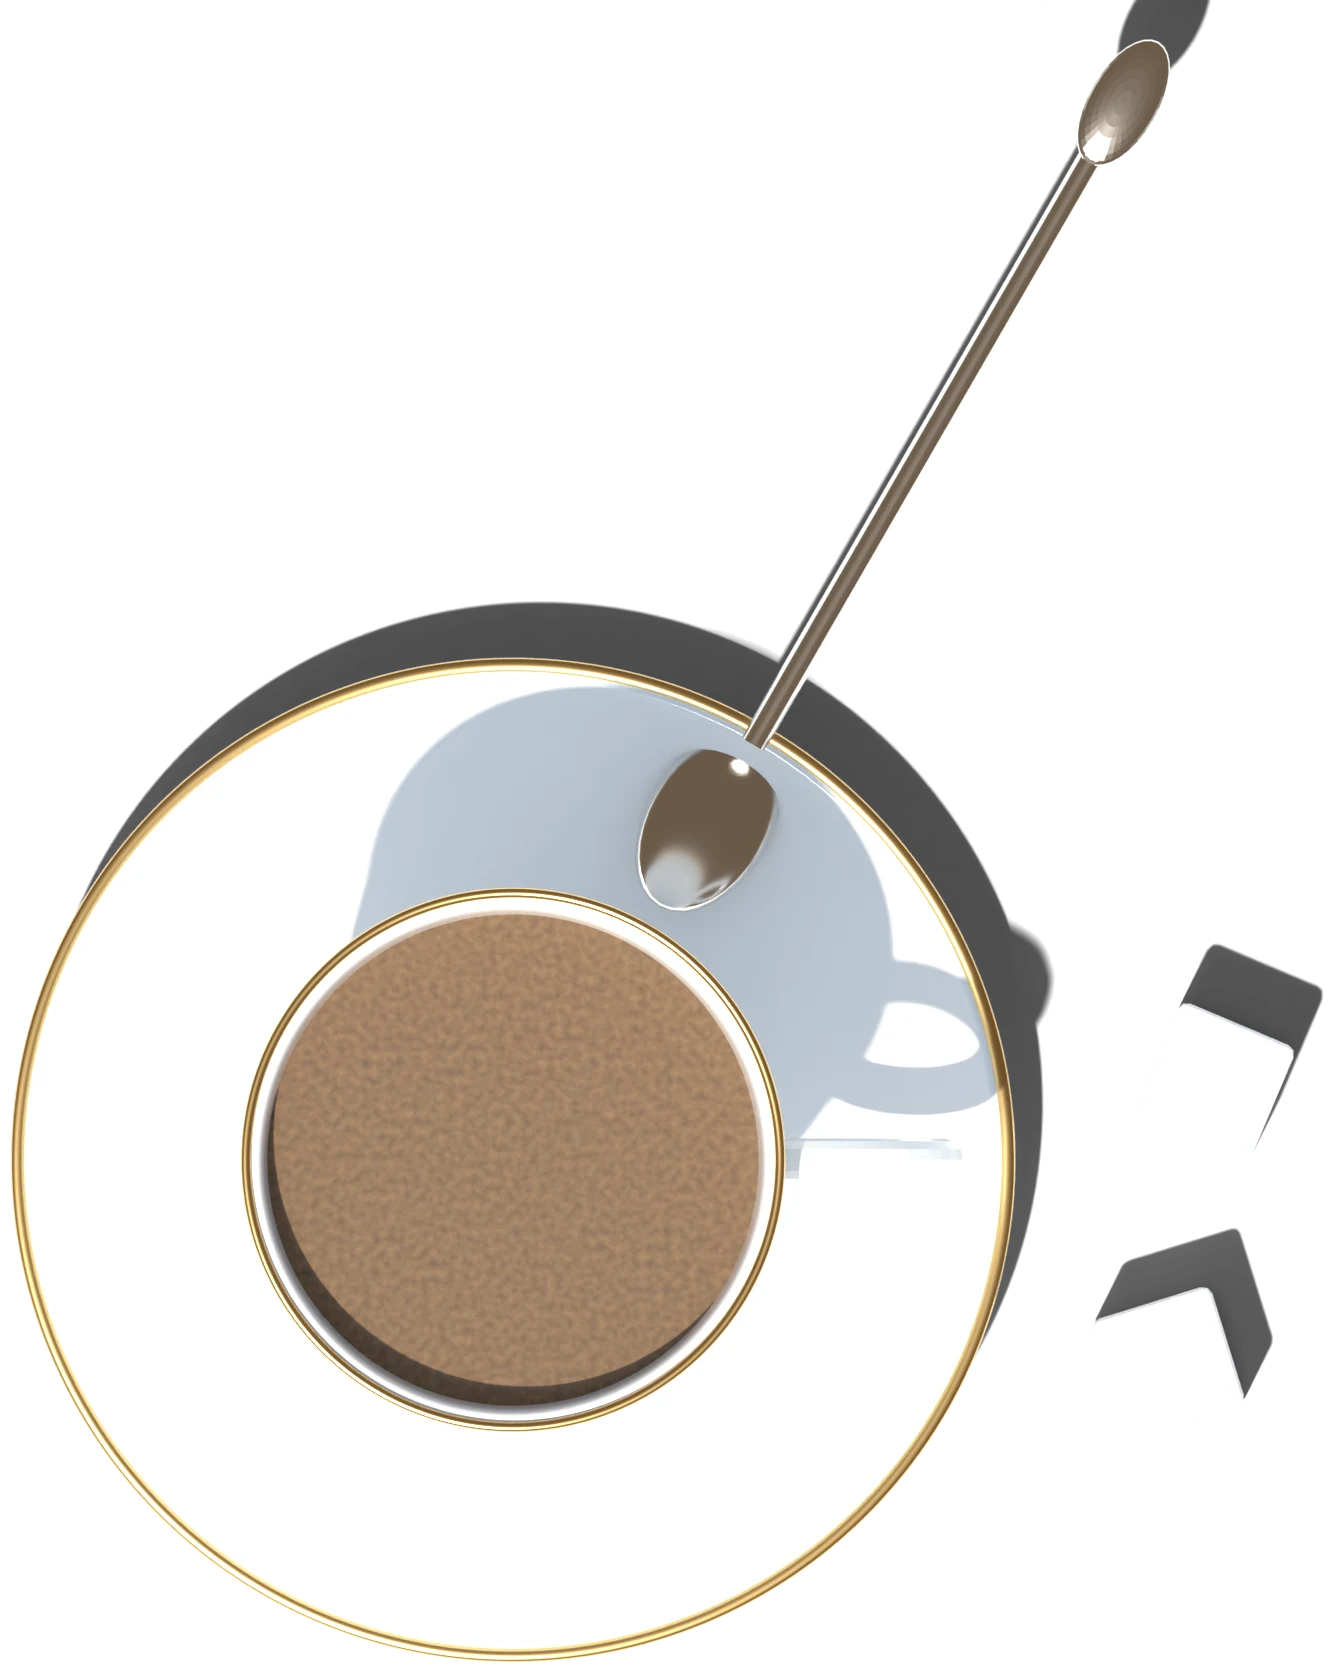
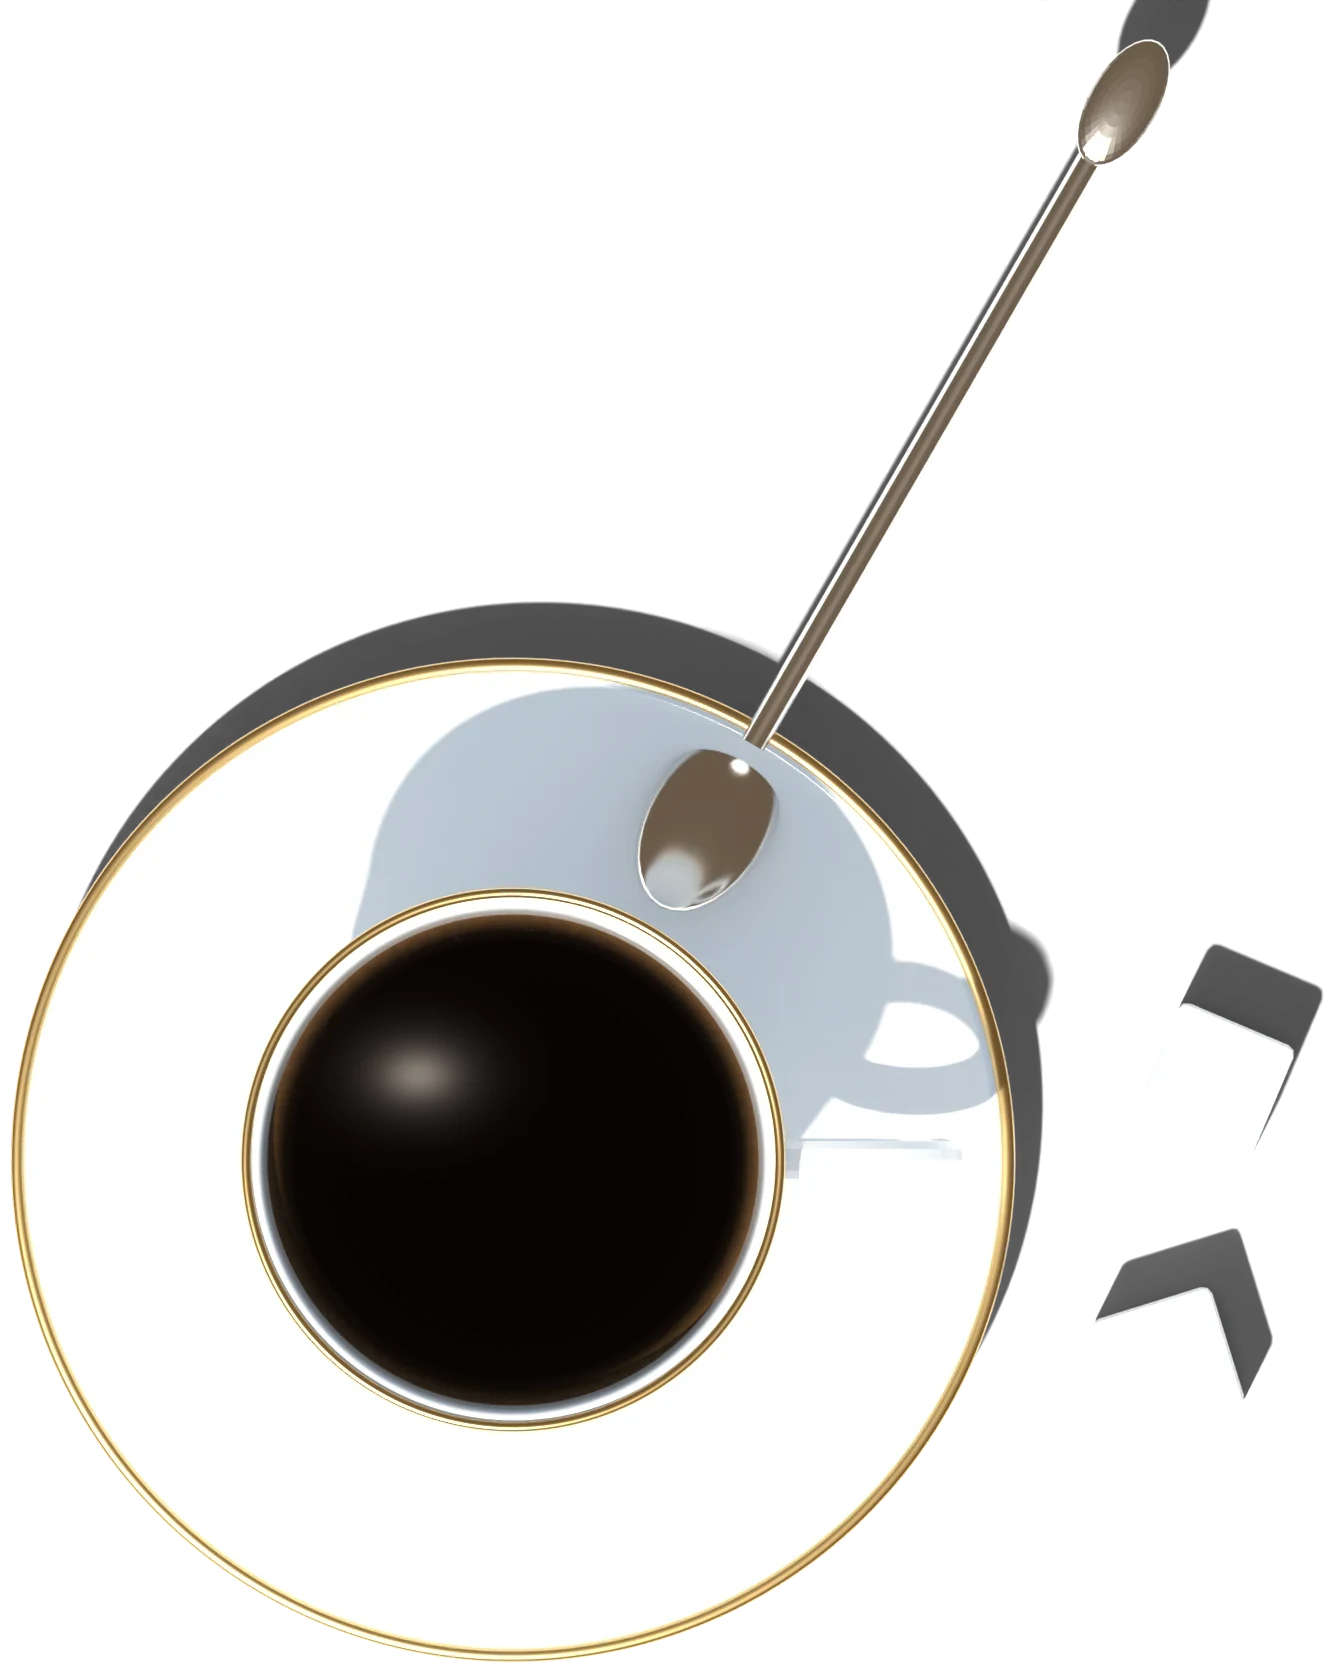
Тени листвы на доске и предметах (в меню и в игре), чёрный армянский кофе, аксессуары выезжают из-за края экрана
Claude-Session: https://claude.ai/code/session_013vq6NREHT7txoK1nXmxN83

Changed region(s): [[0.1845, 0.5284, 0.5844, 0.8392]]

diff --git a/index.html b/index.html
@@ -740,10 +740,10 @@ function probeFps(){
 }
 // GAME_VERSION — для людей, меняется при крупных обновлениях; APP_VERSION — номер сборки для кэша, растёт при каждой выкладке
 const GAME_VERSION='1.0';
-const APP_VERSION='63';   // совпадает с V в sw.js: номер сборки (имя кэша)
+const APP_VERSION='64';   // совпадает с V в sw.js: номер сборки (имя кэша)
 // AV — короткие хеши содержимого картинок (их пишет tools/stamp.py): адрес меняется, только когда меняется сам файл,
 // поэтому после обновления заново качается лишь то, что изменилось
-/*AV*/const AV={"boards/ararat-thumb.webp":"72ff05c2","boards/ararat.webp":"7c44b1ce","boards/ck-beech.png":"ef00f4f8","boards/ck-bronze.png":"db6b57b9","boards/ck-copper.png":"761c282a","boards/ck-gold.png":"87fddeef","boards/ck-ivory.png":"372b72ce","boards/ck-onyx.png":"bfb41b3a","boards/ck-pearl.png":"83aaf841","boards/ck-pomegranate.png":"73a5236d","boards/ck-walnut.png":"1857427e","boards/ckside-beech.png":"2e4a01b1","boards/ckside-bronze.png":"700fbb0d","boards/ckside-copper.png":"54a53742","boards/ckside-gold.png":"f3c3b036","boards/ckside-ivory.png":"cce1b2d9","boards/ckside-onyx.png":"3695f6bf","boards/ckside-pearl.png":"d9c5e6f3","boards/ckside-pomegranate.png":"79fe0975","boards/ckside-walnut.png":"bc0fa647","boards/die-1.png":"2d6046dd","boards/die-2.png":"dba1ef51","boards/die-3.png":"c4754c62","boards/die-4.png":"c26495e1","boards/die-5.png":"49661381","boards/die-6.png":"3d46b683","boards/die-amber-1.png":"105d06f3","boards/die-amber-2.png":"f7695264","boards/die-amber-3.png":"518fcc5b","boards/die-amber-4.png":"82e42d65","boards/die-amber-5.png":"a53a1fed","boards/die-amber-6.png":"6114a46b","boards/die-wood-1.png":"f9fecd23","boards/die-wood-2.png":"dad9e71b","boards/die-wood-3.png":"ebe40557","boards/die-wood-4.png":"f8c4f6d2","boards/die-wood-5.png":"239c202c","boards/die-wood-6.png":"ea05a4a3","boards/glass-thumb.webp":"5db12bdb","boards/glass.webp":"3fe1cddb","boards/lid.webp":"47f4a845","boards/maple.webp":"c7e0d43c","boards/night-thumb.webp":"61a42599","boards/night.webp":"96cd9880","boards/plaque.webp":"6c60c0b6","boards/pomegranate-thumb.webp":"d5574e56","boards/pomegranate.webp":"a89189f5","boards/prop-beads.webp":"01fd0477","boards/prop-cup.webp":"1ea30827","boards/prop-pack.webp":"a1f55e5d","boards/pt-ararat-long.png":"1f9d21de","boards/pt-ararat-short.png":"62177d3a","boards/pt-glass-long.png":"a501e2e6","boards/pt-glass-short.png":"a501e2e6","boards/pt-night-long.png":"bbebf00f","boards/pt-night-short.png":"bbebf00f","boards/pt-pomegranate-long.png":"1f9d21de","boards/pt-pomegranate-short.png":"62177d3a","boards/pt-sevan-long.png":"1f9d21de","boards/pt-sevan-short.png":"62177d3a","boards/pt-yerevan-long.png":"f99f18b5","boards/pt-yerevan-short.png":"0456280e","boards/sevan-thumb.webp":"35db3522","boards/sevan.webp":"56ec51be","boards/table.webp":"34c082e5","boards/walnut-plank.webp":"3f05219c","boards/yerevan-thumb.webp":"4817779b","boards/yerevan.webp":"64e36c39"};/*/AV*/
+/*AV*/const AV={"boards/ararat-thumb.webp":"72ff05c2","boards/ararat.webp":"7c44b1ce","boards/ck-beech.png":"ef00f4f8","boards/ck-bronze.png":"db6b57b9","boards/ck-copper.png":"761c282a","boards/ck-gold.png":"87fddeef","boards/ck-ivory.png":"372b72ce","boards/ck-onyx.png":"bfb41b3a","boards/ck-pearl.png":"83aaf841","boards/ck-pomegranate.png":"73a5236d","boards/ck-walnut.png":"1857427e","boards/ckside-beech.png":"2e4a01b1","boards/ckside-bronze.png":"700fbb0d","boards/ckside-copper.png":"54a53742","boards/ckside-gold.png":"f3c3b036","boards/ckside-ivory.png":"cce1b2d9","boards/ckside-onyx.png":"3695f6bf","boards/ckside-pearl.png":"d9c5e6f3","boards/ckside-pomegranate.png":"79fe0975","boards/ckside-walnut.png":"bc0fa647","boards/die-1.png":"2d6046dd","boards/die-2.png":"dba1ef51","boards/die-3.png":"c4754c62","boards/die-4.png":"c26495e1","boards/die-5.png":"49661381","boards/die-6.png":"3d46b683","boards/die-amber-1.png":"105d06f3","boards/die-amber-2.png":"f7695264","boards/die-amber-3.png":"518fcc5b","boards/die-amber-4.png":"82e42d65","boards/die-amber-5.png":"a53a1fed","boards/die-amber-6.png":"6114a46b","boards/die-wood-1.png":"f9fecd23","boards/die-wood-2.png":"dad9e71b","boards/die-wood-3.png":"ebe40557","boards/die-wood-4.png":"f8c4f6d2","boards/die-wood-5.png":"239c202c","boards/die-wood-6.png":"ea05a4a3","boards/glass-thumb.webp":"5db12bdb","boards/glass.webp":"3fe1cddb","boards/leafshade.webp":"ac682343","boards/lid.webp":"47f4a845","boards/maple.webp":"c7e0d43c","boards/night-thumb.webp":"61a42599","boards/night.webp":"96cd9880","boards/plaque.webp":"6c60c0b6","boards/pomegranate-thumb.webp":"d5574e56","boards/pomegranate.webp":"a89189f5","boards/prop-beads.webp":"01fd0477","boards/prop-cup.webp":"67e8e539","boards/prop-pack.webp":"a1f55e5d","boards/pt-ararat-long.png":"1f9d21de","boards/pt-ararat-short.png":"62177d3a","boards/pt-glass-long.png":"a501e2e6","boards/pt-glass-short.png":"a501e2e6","boards/pt-night-long.png":"bbebf00f","boards/pt-night-short.png":"bbebf00f","boards/pt-pomegranate-long.png":"1f9d21de","boards/pt-pomegranate-short.png":"62177d3a","boards/pt-sevan-long.png":"1f9d21de","boards/pt-sevan-short.png":"62177d3a","boards/pt-yerevan-long.png":"f99f18b5","boards/pt-yerevan-short.png":"0456280e","boards/sevan-thumb.webp":"35db3522","boards/sevan.webp":"56ec51be","boards/table.webp":"34c082e5","boards/walnut-plank.webp":"3f05219c","boards/yerevan-thumb.webp":"4817779b","boards/yerevan.webp":"64e36c39"};/*/AV*/
 const av=p=>p+'?v='+(AV[p]||APP_VERSION);
 const NS='http://www.w3.org/2000/svg';
 const f2=v=>(+v).toFixed(1);

diff --git a/sw.js b/sw.js
@@ -1,8 +1,8 @@
 // Офлайн-кэш: страница, доски, звуки и шрифты кэшируются при установке.
-const V = '63';                 // = APP_VERSION в index.html
+const V = '64';                 // = APP_VERSION в index.html
 const VERSION = 'nardy-v' + V;
 // хеши содержимого картинок — те же, что AV в index.html (пишет tools/stamp.py)
-/*AV*/const AV={"boards/ararat-thumb.webp":"72ff05c2","boards/ararat.webp":"7c44b1ce","boards/ck-beech.png":"ef00f4f8","boards/ck-bronze.png":"db6b57b9","boards/ck-copper.png":"761c282a","boards/ck-gold.png":"87fddeef","boards/ck-ivory.png":"372b72ce","boards/ck-onyx.png":"bfb41b3a","boards/ck-pearl.png":"83aaf841","boards/ck-pomegranate.png":"73a5236d","boards/ck-walnut.png":"1857427e","boards/ckside-beech.png":"2e4a01b1","boards/ckside-bronze.png":"700fbb0d","boards/ckside-copper.png":"54a53742","boards/ckside-gold.png":"f3c3b036","boards/ckside-ivory.png":"cce1b2d9","boards/ckside-onyx.png":"3695f6bf","boards/ckside-pearl.png":"d9c5e6f3","boards/ckside-pomegranate.png":"79fe0975","boards/ckside-walnut.png":"bc0fa647","boards/die-1.png":"2d6046dd","boards/die-2.png":"dba1ef51","boards/die-3.png":"c4754c62","boards/die-4.png":"c26495e1","boards/die-5.png":"49661381","boards/die-6.png":"3d46b683","boards/die-amber-1.png":"105d06f3","boards/die-amber-2.png":"f7695264","boards/die-amber-3.png":"518fcc5b","boards/die-amber-4.png":"82e42d65","boards/die-amber-5.png":"a53a1fed","boards/die-amber-6.png":"6114a46b","boards/die-wood-1.png":"f9fecd23","boards/die-wood-2.png":"dad9e71b","boards/die-wood-3.png":"ebe40557","boards/die-wood-4.png":"f8c4f6d2","boards/die-wood-5.png":"239c202c","boards/die-wood-6.png":"ea05a4a3","boards/glass-thumb.webp":"5db12bdb","boards/glass.webp":"3fe1cddb","boards/lid.webp":"47f4a845","boards/maple.webp":"c7e0d43c","boards/night-thumb.webp":"61a42599","boards/night.webp":"96cd9880","boards/plaque.webp":"6c60c0b6","boards/pomegranate-thumb.webp":"d5574e56","boards/pomegranate.webp":"a89189f5","boards/prop-beads.webp":"01fd0477","boards/prop-cup.webp":"1ea30827","boards/prop-pack.webp":"a1f55e5d","boards/pt-ararat-long.png":"1f9d21de","boards/pt-ararat-short.png":"62177d3a","boards/pt-glass-long.png":"a501e2e6","boards/pt-glass-short.png":"a501e2e6","boards/pt-night-long.png":"bbebf00f","boards/pt-night-short.png":"bbebf00f","boards/pt-pomegranate-long.png":"1f9d21de","boards/pt-pomegranate-short.png":"62177d3a","boards/pt-sevan-long.png":"1f9d21de","boards/pt-sevan-short.png":"62177d3a","boards/pt-yerevan-long.png":"f99f18b5","boards/pt-yerevan-short.png":"0456280e","boards/sevan-thumb.webp":"35db3522","boards/sevan.webp":"56ec51be","boards/table.webp":"34c082e5","boards/walnut-plank.webp":"3f05219c","boards/yerevan-thumb.webp":"4817779b","boards/yerevan.webp":"64e36c39"};/*/AV*/
+/*AV*/const AV={"boards/ararat-thumb.webp":"72ff05c2","boards/ararat.webp":"7c44b1ce","boards/ck-beech.png":"ef00f4f8","boards/ck-bronze.png":"db6b57b9","boards/ck-copper.png":"761c282a","boards/ck-gold.png":"87fddeef","boards/ck-ivory.png":"372b72ce","boards/ck-onyx.png":"bfb41b3a","boards/ck-pearl.png":"83aaf841","boards/ck-pomegranate.png":"73a5236d","boards/ck-walnut.png":"1857427e","boards/ckside-beech.png":"2e4a01b1","boards/ckside-bronze.png":"700fbb0d","boards/ckside-copper.png":"54a53742","boards/ckside-gold.png":"f3c3b036","boards/ckside-ivory.png":"cce1b2d9","boards/ckside-onyx.png":"3695f6bf","boards/ckside-pearl.png":"d9c5e6f3","boards/ckside-pomegranate.png":"79fe0975","boards/ckside-walnut.png":"bc0fa647","boards/die-1.png":"2d6046dd","boards/die-2.png":"dba1ef51","boards/die-3.png":"c4754c62","boards/die-4.png":"c26495e1","boards/die-5.png":"49661381","boards/die-6.png":"3d46b683","boards/die-amber-1.png":"105d06f3","boards/die-amber-2.png":"f7695264","boards/die-amber-3.png":"518fcc5b","boards/die-amber-4.png":"82e42d65","boards/die-amber-5.png":"a53a1fed","boards/die-amber-6.png":"6114a46b","boards/die-wood-1.png":"f9fecd23","boards/die-wood-2.png":"dad9e71b","boards/die-wood-3.png":"ebe40557","boards/die-wood-4.png":"f8c4f6d2","boards/die-wood-5.png":"239c202c","boards/die-wood-6.png":"ea05a4a3","boards/glass-thumb.webp":"5db12bdb","boards/glass.webp":"3fe1cddb","boards/leafshade.webp":"ac682343","boards/lid.webp":"47f4a845","boards/maple.webp":"c7e0d43c","boards/night-thumb.webp":"61a42599","boards/night.webp":"96cd9880","boards/plaque.webp":"6c60c0b6","boards/pomegranate-thumb.webp":"d5574e56","boards/pomegranate.webp":"a89189f5","boards/prop-beads.webp":"01fd0477","boards/prop-cup.webp":"67e8e539","boards/prop-pack.webp":"a1f55e5d","boards/pt-ararat-long.png":"1f9d21de","boards/pt-ararat-short.png":"62177d3a","boards/pt-glass-long.png":"a501e2e6","boards/pt-glass-short.png":"a501e2e6","boards/pt-night-long.png":"bbebf00f","boards/pt-night-short.png":"bbebf00f","boards/pt-pomegranate-long.png":"1f9d21de","boards/pt-pomegranate-short.png":"62177d3a","boards/pt-sevan-long.png":"1f9d21de","boards/pt-sevan-short.png":"62177d3a","boards/pt-yerevan-long.png":"f99f18b5","boards/pt-yerevan-short.png":"0456280e","boards/sevan-thumb.webp":"35db3522","boards/sevan.webp":"56ec51be","boards/table.webp":"34c082e5","boards/walnut-plank.webp":"3f05219c","boards/yerevan-thumb.webp":"4817779b","boards/yerevan.webp":"64e36c39"};/*/AV*/
 const av = p => AV[p] ? p + '?v=' + AV[p] : p;
 const SHELL = [
   './',

diff --git a/tools/blender_table.py b/tools/blender_table.py
@@ -147,7 +147,7 @@ r = math_('MULTIPLY', math_('SQRT', math_('ADD', math_('MULTIPLY', dx, dx), math
 rim = fn.new('ShaderNodeMapRange'); rim.inputs['From Min'].default_value = .90; rim.inputs['From Max'].default_value = .995; rim.clamp = True; fl.new(r, rim.inputs['Value'])
 noise = fn.new('ShaderNodeTexNoise'); noise.inputs['Scale'].default_value = 40; noise.inputs['Detail'].default_value = 4
 fl.new(tco.outputs['Generated'], noise.inputs['Vector'])
-mx = fn.new('ShaderNodeMix'); mx.data_type = 'RGBA'; mx.inputs['A'].default_value = (.010, .0055, .0032, 1); mx.inputs['B'].default_value = (.15, .075, .03, 1)
+mx = fn.new('ShaderNodeMix'); mx.data_type = 'RGBA'; mx.inputs['A'].default_value = (.0035, .002, .0012, 1); mx.inputs['B'].default_value = (.15, .075, .03, 1)
 fr = math_('MULTIPLY', math_('POWER', rim.outputs[0], 2.2), math_('ADD', math_('MULTIPLY', noise.outputs['Fac'], .6), .55))
 fl.new(fr, mx.inputs['Factor']); fl.new(mx.outputs['Result'], fb.inputs['Base Color'])
 fb.inputs['Roughness'].default_value = .04; fb.inputs['IOR'].default_value = 1.34; fb.inputs['Specular IOR Level'].default_value = .6
@@ -353,6 +353,20 @@ if PROPS:
     win = bpy.data.lights.new('window', 'SUN'); win.energy = 3.0; win.angle = math.radians(16); win.color = (1, .97, .92)
     wo = bpy.data.objects.new('window', win); sc.collection.objects.link(wo); wo.rotation_euler = (math.radians(24), math.radians(-18), 0)
     wo.visible_diffuse = False; wo.visible_transmission = False; wo.visible_volume_scatter = False; wo.visible_shadow = False
+    # мягкое «окно» прямо над чашкой: видно только в отражениях — на чёрной глади кофе появляется живой блик
+    em = bpy.data.materials.new('winrefl'); em.use_nodes = True; en = em.node_tree.nodes; en.remove(en['Principled BSDF'])
+    es = en.new('ShaderNodeEmission'); es.inputs['Color'].default_value = (1, .96, .9, 1)
+    # мягкое пятно: яркость спадает от центра к краям (сферический градиент), без жёсткой рамки
+    gt = en.new('ShaderNodeTexGradient'); gt.gradient_type = 'SPHERICAL'; tc_ = en.new('ShaderNodeTexCoord'); mp_ = en.new('ShaderNodeMapping')
+    mp_.inputs['Location'].default_value = (-.5, -.5, 0); mp_.inputs['Scale'].default_value = (2, 2, 1)
+    em.node_tree.links.new(tc_.outputs['Generated'], mp_.inputs['Vector']); em.node_tree.links.new(mp_.outputs['Vector'], gt.inputs['Vector'])
+    pw_ = en.new('ShaderNodeMath'); pw_.operation = 'POWER'; pw_.inputs[1].default_value = 2.2
+    em.node_tree.links.new(gt.outputs['Fac'], pw_.inputs[0])
+    st_ = en.new('ShaderNodeMath'); st_.operation = 'MULTIPLY'; st_.inputs[1].default_value = 1.6
+    em.node_tree.links.new(pw_.outputs[0], st_.inputs[0]); em.node_tree.links.new(st_.outputs[0], es.inputs['Strength'])
+    em.node_tree.links.new(es.outputs[0], en['Material Output'].inputs[0])
+    bpy.ops.mesh.primitive_plane_add(size=1, location=(X0 - .42, Y0 + .38, 9)); wp = bpy.context.object; wp.scale = (.95, .7, 1)
+    wp.data.materials.append(em); wp.visible_camera = False; wp.visible_diffuse = False; wp.visible_shadow = False
 cam = bpy.data.cameras.new('cam'); cam.type = 'ORTHO'; cam.ortho_scale = TW
 co = bpy.data.objects.new('cam', cam); sc.collection.objects.link(co); sc.camera = co; co.location = (TW / 2, -TH / 2, 30)
 sc.render.engine = 'CYCLES'; sc.cycles.device = 'CPU'; sc.cycles.samples = int(os.environ.get('SAMPLES', 128)); sc.cycles.max_bounces = 10; sc.cycles.transmission_bounces = 10; sc.cycles.use_denoising = True

diff --git a/tools/coffee_surface.py b/tools/coffee_surface.py
@@ -1,0 +1,22 @@
+# Поверхность чёрного армянского кофе на картинке-предмете boards/prop-cup.webp: внутри — почти чёрная гладь
+# с мягким бликом лампы, у стенки остаётся ободок из рендера (там слой кофе тонкий и просвечивает).
+import sys
+import numpy as np
+from PIL import Image
+p = sys.argv[1] if len(sys.argv) > 1 else 'boards/prop-cup.webp'
+im = Image.open(p).convert('RGBA'); a = np.asarray(im).astype(np.float32)
+CX, CY, R = 513, 1160, 251                      # центр и радиус кофе в картинке (см. blender_table.py: cup centre)
+yy, xx = np.mgrid[0:a.shape[0], 0:a.shape[1]]
+r = np.hypot(xx - CX, yy - CY) / R
+base = np.array([7, 4, 3], np.float32)
+# лёгкий градиент глубины: к центру чуть темнее, к стенке чуть теплее
+surf = base[None, None, :] * (1 + .5 * np.clip(r, 0, 1)[..., None] ** 2)
+# мягкий блик лампы сверху-слева: размытое овальное пятно и узкий яркий центр
+hx, hy = CX - .38 * R, CY - .34 * R
+d = np.hypot((xx - hx) / (.42 * R), (yy - hy) / (.30 * R))
+glow = np.exp(-d ** 2 * 2.2) * 58 + np.exp(-d ** 2 * 9) * 70
+surf = surf + glow[..., None] * np.array([1, .96, .9], np.float32)
+w = np.clip((.93 - r) / .06, 0, 1)[..., None]   # к стенке плавно возвращаемся к рендеру (ободок, мениск)
+a[..., :3] = a[..., :3] * (1 - w) + surf * w
+Image.fromarray(np.clip(a, 0, 255).astype(np.uint8), 'RGBA').save(p, 'WEBP', quality=88, method=6, alpha_quality=90)
+print('coffee surface ok')
